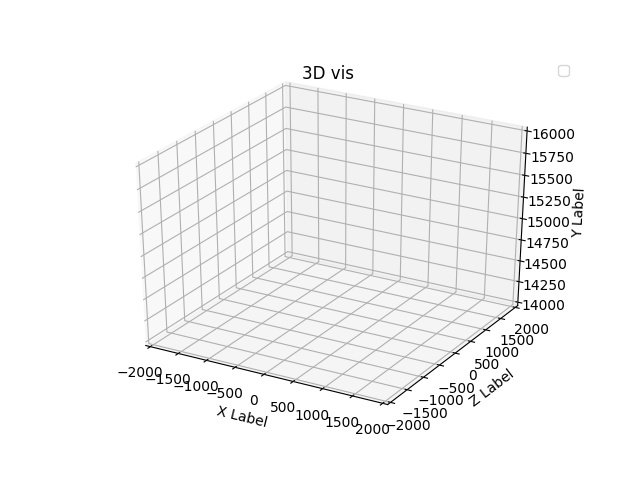
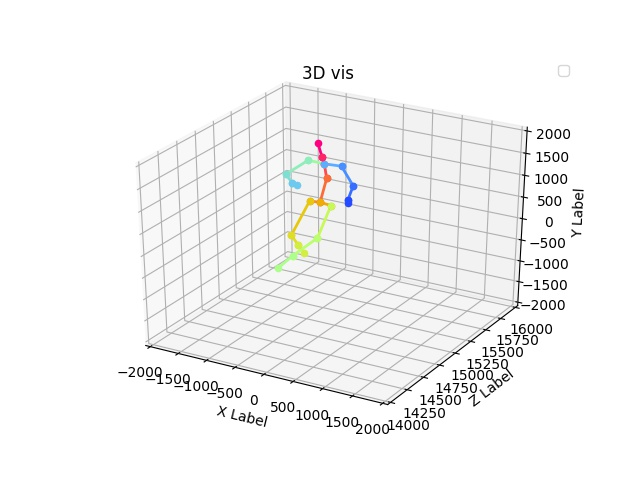
debug

Changed region(s): [[0.5938, 0.25, 0.9062, 0.9062], [0.4375, 0.2812, 0.5625, 0.5625], [0.4375, 0.3438, 0.4688, 0.4062]]

diff --git a/vis.py b/vis.py
@@ -47,7 +47,7 @@ def visualize(image, preds):
         ax.set_ylabel('Z Label')
         ax.set_zlabel('Y Label')
         ax.set_xlim([-2000,2000])
-        ax.set_ylim([14000,16000])
+        ax.set_ylim([14500,16000])
         ax.set_zlim([-2000,2000])
         ax.legend()
         plt.savefig("output.jpg")
